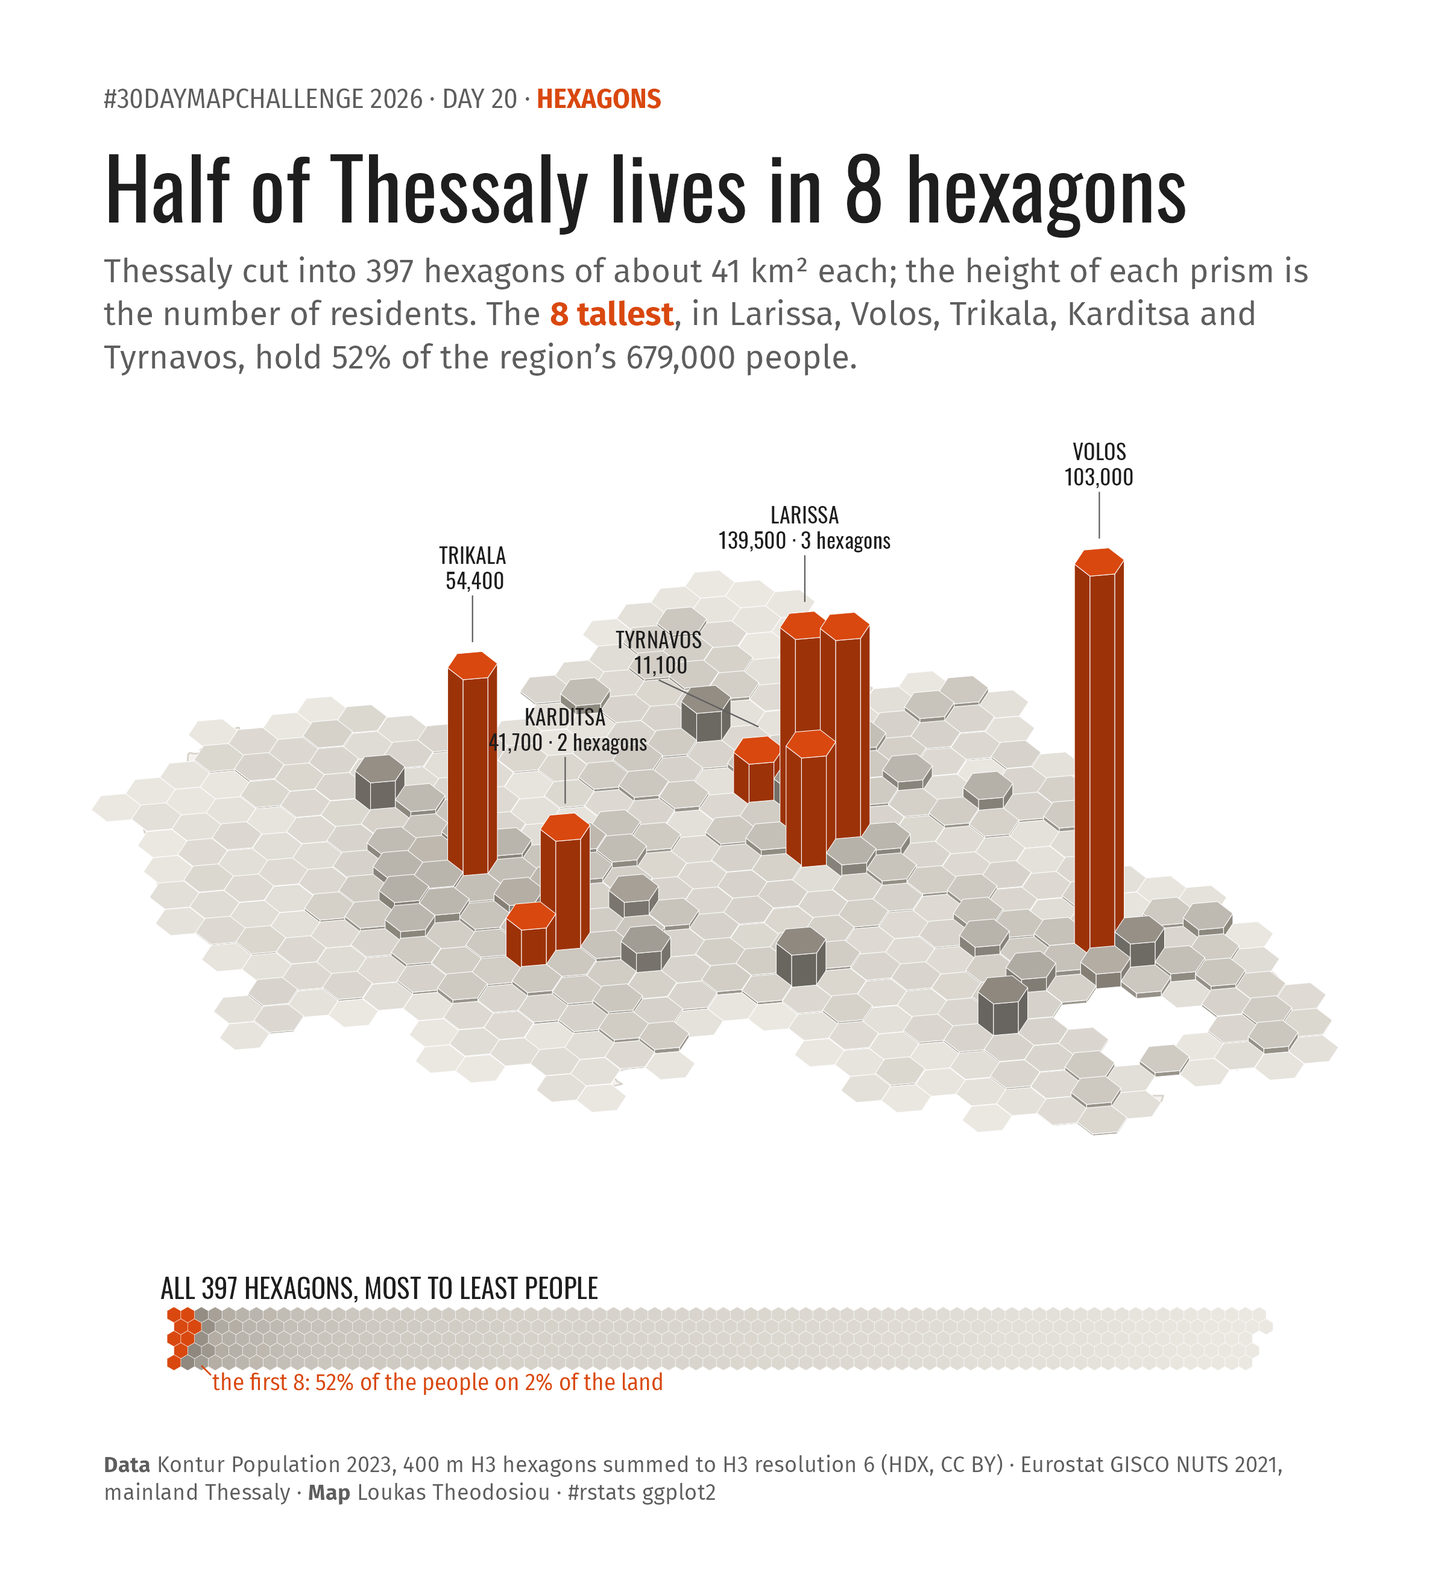
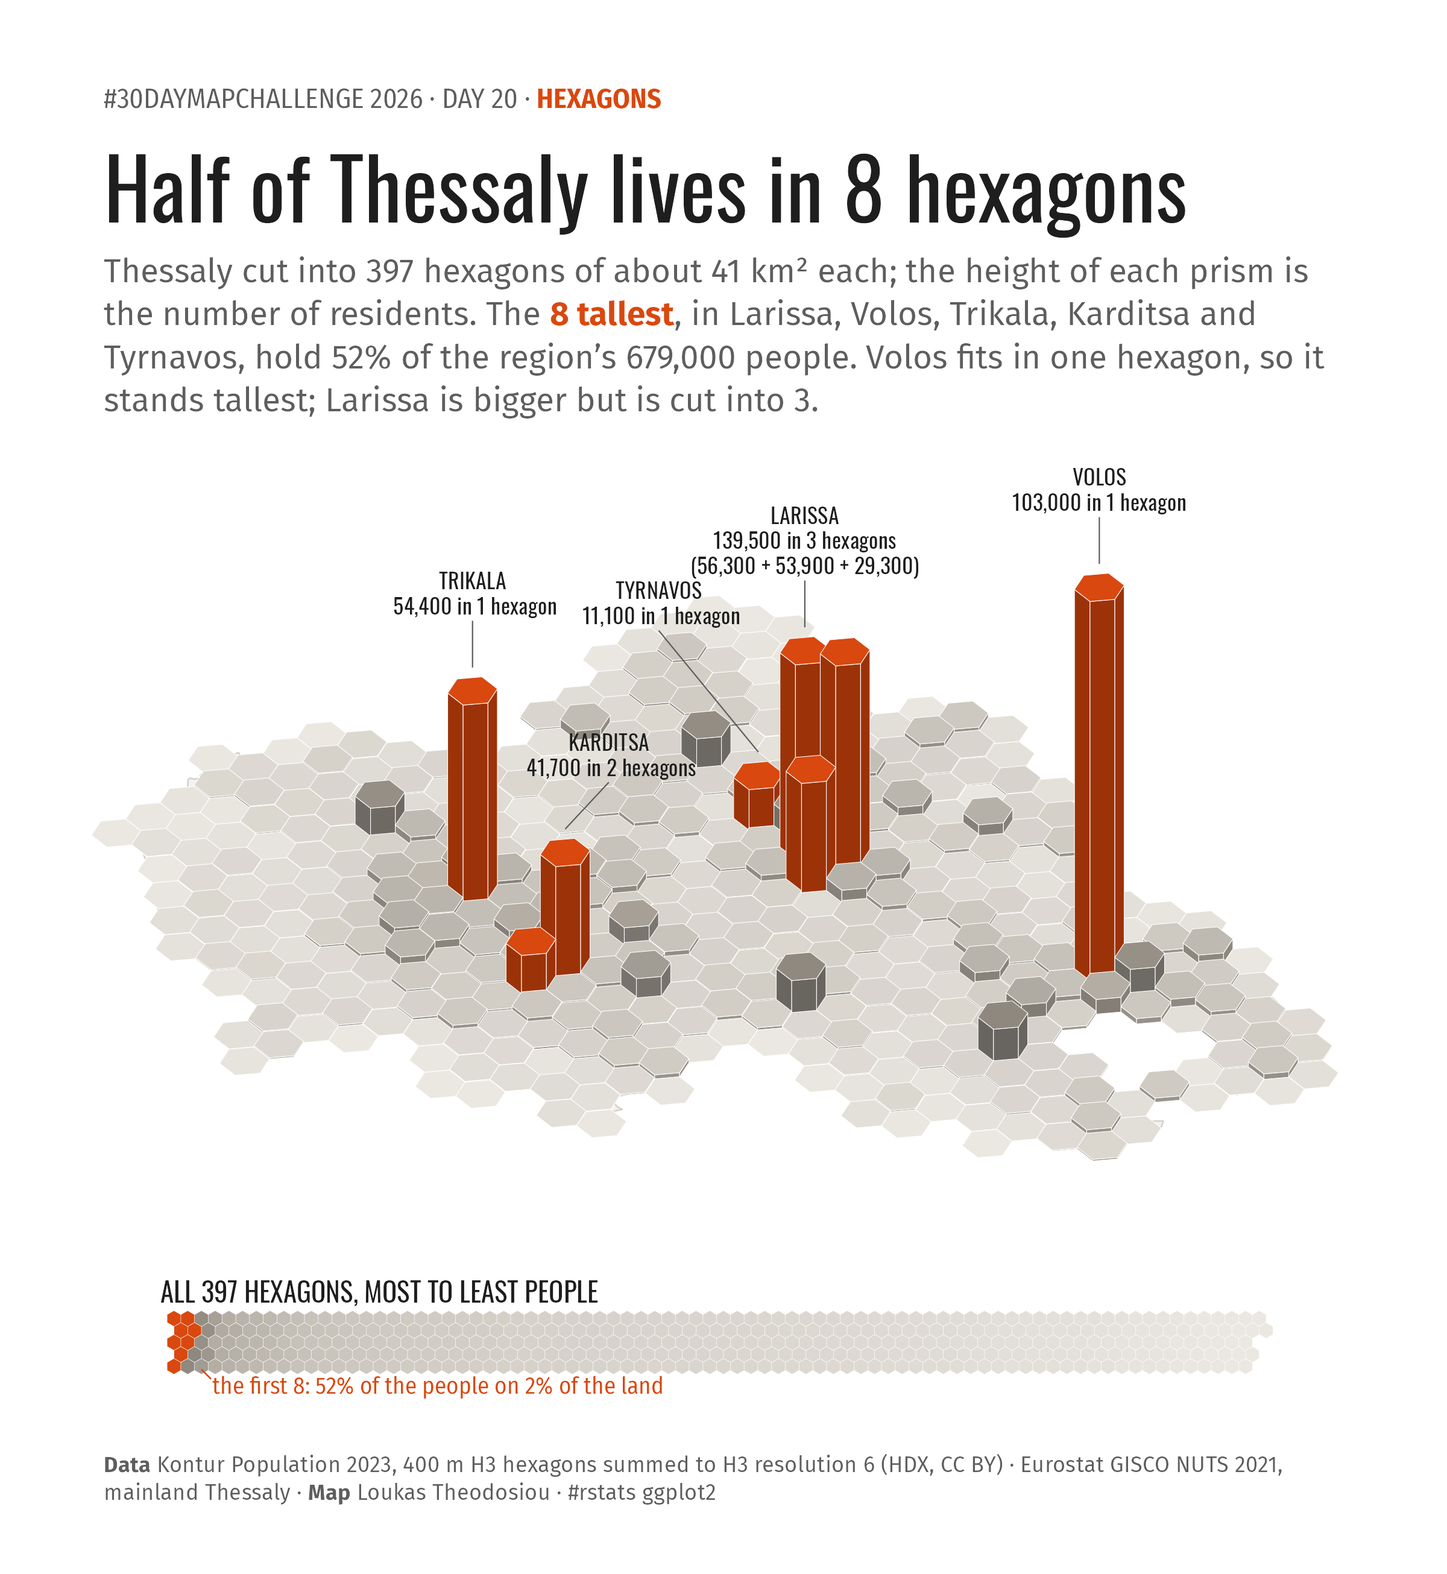
30DayMap Day 20: explain why Volos stands taller than Larissa; README maps link to their R file

diff --git a/thessaly-dataviz/30daymap/README.md b/thessaly-dataviz/30daymap/README.md
@@ -4,6 +4,8 @@ Thirty maps of Thessaly and Larissa for the [#30DayMapChallenge](https://30dayma
 made in R / ggplot2 by Loukas Theodosiou. Every map is built from open data named in its caption; each title is a
 number the script computes and prints. ✅ = done · ✋ = needs a check or input from Loukas (see *Status*).
 
+Each day is one R file in `scripts/`; click a map to open its code.
+
 **Run** from `thessaly-dataviz/`: `LANG=en_US.UTF-8 Rscript 30daymap/scripts/dayNN_<name>.R`. Scripts download and
 cache their data in `30daymap/cache/` (not in git). Shared look and data helpers: [`R/m30_base.R`](R/m30_base.R)
 (fonts Oswald + Fira Sans, Copernicus DEM, OSM extract, GADM municipalities). Design brief: [`BRIEF.md`](BRIEF.md).
@@ -46,9 +48,9 @@ cache their data in `30daymap/cache/` (not in git). Shared look and data helpers
 <a id="day-01"></a>
 ## Day 01 · Points — Nearly a third of Thessaly's settlements sit above 500 m
 
-[![](out/day01_settlements.png)](out/day01_settlements.png)
+**R file:** [`scripts/day01_settlements.R`](scripts/day01_settlements.R)
 
-Code: [`scripts/day01_settlements.R`](scripts/day01_settlements.R)
+[![](out/day01_settlements.png)](scripts/day01_settlements.R)
 
 **Idea**
 Every city, town, village and hamlet of Thessaly as one dot, coloured by the height it sits at. Pale dots fill the
@@ -82,9 +84,9 @@ done
 <a id="day-02"></a>
 ## Day 02 · Lines — Three fifths of Thessaly drains into one river
 
-[![](out/day02_pineios_rivers.png)](out/day02_pineios_rivers.png)
+**R file:** [`scripts/day02_pineios_rivers.R`](scripts/day02_pineios_rivers.R)
 
-Code: [`scripts/day02_pineios_rivers.R`](scripts/day02_pineios_rivers.R)
+[![](out/day02_pineios_rivers.png)](scripts/day02_pineios_rivers.R)
 
 **Idea**
 Every river reach of mainland Thessaly, line width by modelled mean discharge. The Pineios system is blue (main stem dark,
@@ -127,9 +129,9 @@ done
 <a id="day-03"></a>
 ## Day 03 · Polygons — Half of mapped Thessaly is fields
 
-[![](out/day03_thessaly_patchwork.png)](out/day03_thessaly_patchwork.png)
+**R file:** [`scripts/day03_thessaly_patchwork.R`](scripts/day03_thessaly_patchwork.R)
 
-Code: [`scripts/day03_thessaly_patchwork.R`](scripts/day03_thessaly_patchwork.R)
+[![](out/day03_thessaly_patchwork.png)](scripts/day03_thessaly_patchwork.R)
 
 **Idea**
 A mosaic of every land-use / land-cover polygon OpenStreetMap volunteers have drawn in mainland Thessaly, in six muted
@@ -164,9 +166,9 @@ done
 <a id="day-04"></a>
 ## Day 04 · Clusters — Three places hold 44% of Thessaly's threatened-species records
 
-[![](out/day04_species_clusters.png)](out/day04_species_clusters.png)
+**R file:** [`scripts/day04_species_clusters.R`](scripts/day04_species_clusters.R)
 
-Code: [`scripts/day04_species_clusters.R`](scripts/day04_species_clusters.R)
+[![](out/day04_species_clusters.png)](scripts/day04_species_clusters.R)
 
 **Idea**
 Instead of the hex grid of t13, let the records find their own hotspots: DBSCAN groups records of globally
@@ -205,9 +207,9 @@ done
 <a id="day-05"></a>
 ## Day 05 · Sight — Olympus sees 32% of Thessaly, Meteora only 6%
 
-[![](out/day05_sight.png)](out/day05_sight.png)
+**R file:** [`scripts/day05_sight.R`](scripts/day05_sight.R)
 
-Code: [`scripts/day05_sight.R`](scripts/day05_sight.R)
+[![](out/day05_sight.png)](scripts/day05_sight.R)
 
 **Idea**
 Two viewsheds over mainland Thessaly: what a person standing on Mytikas (Olympus' summit) and on the rock of Great Meteoron could see on a perfectly clear day. Blue = seen from Olympus, red = seen from Meteora, purple = both. A bar strip gives the share of the land and the farthest visible ground.
@@ -243,9 +245,9 @@ done
 <a id="day-06"></a>
 ## Day 06 · Vintage — 37% of Thessaly is plain, 16% is mountain
 
-[![](out/day06_vintage.png)](out/day06_vintage.png)
+**R file:** [`scripts/day06_vintage.R`](scripts/day06_vintage.R)
 
-Code: [`scripts/day06_vintage.R`](scripts/day06_vintage.R)
+[![](out/day06_vintage.png)](scripts/day06_vintage.R)
 
 **Idea**
 An old-atlas relief plate of Thessaly: faded hypsometric tints, 200 m contours, sepia relief shading, rivers in faded blue, engraved coast ripples and a serif cartouche with the "scale of heights" that doubles as the chart (share of the land in each height band).
@@ -277,9 +279,9 @@ done
 <a id="day-07"></a>
 ## Day 07 · A 10 minute map — Fewer than a third of Larissa's streets keep to the compass
 
-[![](out/day07_larissa_streets.png)](out/day07_larissa_streets.png)
+**R file:** [`scripts/day07_larissa_streets.R`](scripts/day07_larissa_streets.R)
 
-Code: [`scripts/day07_larissa_streets.R`](scripts/day07_larissa_streets.R)
+[![](out/day07_larissa_streets.png)](scripts/day07_larissa_streets.R)
 
 **Idea**
 Every street within 3 km of Larissa's centre, cut into straight pieces and coloured by how far it turns from the compass:
@@ -312,9 +314,9 @@ done
 <a id="day-08"></a>
 ## Day 08 · Utopia — Karla came back at a fifth of its size
 
-[![](out/day08_utopia_karla.png)](out/day08_utopia_karla.png)
+**R file:** [`scripts/day08_utopia_karla.R`](scripts/day08_utopia_karla.R)
 
-Code: [`scripts/day08_utopia_karla.R`](scripts/day08_utopia_karla.R)
+[![](out/day08_utopia_karla.png)](scripts/day08_utopia_karla.R)
 
 **Idea**
 Lake Karla (ancient Boibeis) was drained in 1962; a smaller lake was re-created in the lowest part of the old bed. The map puts the old lake at its record size next to today's lake — "the lake that was / the lake they want back" — and shows that Storm Daniel briefly refilled almost the whole old bed in September 2023.
@@ -347,9 +349,9 @@ done (needs Loukas: OK with a DEM-derived old shoreline? If he has a historic ma
 <a id="day-09"></a>
 ## Day 09 · Urban-rural — Half of Thessaly lives on 1% of its land
 
-[![](out/day09_urban_rural.png)](out/day09_urban_rural.png)
+**R file:** [`scripts/day09_urban_rural.R`](scripts/day09_urban_rural.R)
 
-Code: [`scripts/day09_urban_rural.R`](scripts/day09_urban_rural.R)
+[![](out/day09_urban_rural.png)](scripts/day09_urban_rural.R)
 
 **Idea**
 Every populated 400 m hexagon of mainland Thessaly, coloured by the EU Degree of Urbanisation of the 1 km cell under it
@@ -384,9 +386,9 @@ done
 <a id="day-10"></a>
 ## Day 10 · Prompting only — A sixth of Thessaly stands above 1,000 m, a ring of mountains around a flat plain
 
-[![](out/day10_prompting_only.png)](out/day10_prompting_only.png)
+**R file:** [`scripts/day10_prompting_only.R`](scripts/day10_prompting_only.R)
 
-Code: [`scripts/day10_prompting_only.R`](scripts/day10_prompting_only.R)
+[![](out/day10_prompting_only.png)](scripts/day10_prompting_only.R)
 
 **Idea**
 Thessaly is a lowland bowl walled in by mountains. The plain stays grey on a hillshade, land above 1,000 m is
@@ -435,9 +437,9 @@ done. Loukas could check whether he prefers "Kissavos" for Ossa (OSM tags only "
 <a id="day-11"></a>
 ## Day 11 · Sound — Thessaly on tape: 355 recordings, half of them grasshoppers
 
-[![](out/day11_sound.png)](out/day11_sound.png)
+**R file:** [`scripts/day11_sound.R`](scripts/day11_sound.R)
 
-Code: [`scripts/day11_sound.R`](scripts/day11_sound.R)
+[![](out/day11_sound.png)](scripts/day11_sound.R)
 
 **Idea**
 Map every animal sound recorded in Thessaly and shared on GBIF, each spot drawn as concentric "sound rings" (more
@@ -475,9 +477,9 @@ done
 <a id="day-12"></a>
 ## Day 12 · Power — 1,644 solar parks, 22 km² of panels
 
-[![](out/day12_power.png)](out/day12_power.png)
+**R file:** [`scripts/day12_power.R`](scripts/day12_power.R)
 
-Code: [`scripts/day12_power.R`](scripts/day12_power.R)
+[![](out/day12_power.png)](scripts/day12_power.R)
 
 **Idea**
 A night map of Thessaly's power: every solar site traced in OpenStreetMap as an amber dot (area to scale), the glowing
@@ -517,9 +519,9 @@ done
 <a id="day-13"></a>
 ## Day 13 · Interactions — Half of Thessaly's people live on 0.6 % of its land
 
-[![](out/day13_interactions.png)](out/day13_interactions.png)
+**R file:** [`scripts/day13_interactions.R`](scripts/day13_interactions.R) · [`out/day13_interactions.html`](out/day13_interactions.html)
 
-Code: [`scripts/day13_interactions.R`](scripts/day13_interactions.R) · [`out/day13_interactions.html`](out/day13_interactions.html)
+[![](out/day13_interactions.png)](scripts/day13_interactions.R)
 
 **Idea**
 An interactive Leaflet map of Thessaly with five layers you can switch on and off: people (Kontur hexagons),
@@ -563,9 +565,9 @@ done
 <a id="day-14"></a>
 ## Day 14 · A Borgesian map — The map of Larissa is still half in tatters
 
-[![](out/day14_larissa_buildings.png)](out/day14_larissa_buildings.png)
+**R file:** [`scripts/day14_larissa_buildings.R`](scripts/day14_larissa_buildings.R)
 
-Code: [`scripts/day14_larissa_buildings.R`](scripts/day14_larissa_buildings.R)
+[![](out/day14_larissa_buildings.png)](scripts/day14_larissa_buildings.R)
 
 **Idea**
 Borges' map that "coincided point for point" with the empire, applied to Larissa: every building footprint in OSM in an
@@ -598,9 +600,9 @@ needs Loukas: check the quote wording against Hurley's translation.
 <a id="day-15"></a>
 ## Day 15 · Inside out — Close the Vale of Tempe and Thessaly is a lake of 2,880 km² again
 
-[![](out/day15_inside_out.png)](out/day15_inside_out.png)
+**R file:** [`scripts/day15_inside_out.R`](scripts/day15_inside_out.R)
 
-Code: [`scripts/day15_inside_out.R`](scripts/day15_inside_out.R)
+[![](out/day15_inside_out.png)](scripts/day15_inside_out.R)
 
 **Idea**
 Herodotus (Histories 7.129) writes that Thessaly was once a lake ringed by mountains until the Pineios cut the Tempe gorge. Thought experiment on today's terrain: plug the gorge, let the water rise until it finds the next way out, and draw the basin as water and the mountains as the land. Towns get their depth "under the lake".
@@ -634,9 +636,9 @@ done
 <a id="day-16"></a>
 ## Day 16 · Collaborative map — 1,244 people built this map, 7 of them did half the work
 
-[![](out/day16_inaturalist.png)](out/day16_inaturalist.png)
+**R file:** [`scripts/day16_inaturalist.R`](scripts/day16_inaturalist.R)
 
-Code: [`scripts/day16_inaturalist.R`](scripts/day16_inaturalist.R)
+[![](out/day16_inaturalist.png)](scripts/day16_inaturalist.R)
 
 **Idea**
 Thessaly's nature map as citizen science: every research-grade iNaturalist observation, binned into 5 km hexagons
@@ -675,9 +677,9 @@ done
 <a id="day-17"></a>
 ## Day 17 · Light & dark — Shortest day, one hour before sunset: 32% of Thessaly already lies in shadow
 
-[![](out/day17_light_dark.png)](out/day17_light_dark.png)
+**R file:** [`scripts/day17_light_dark.R`](scripts/day17_light_dark.R)
 
-Code: [`scripts/day17_light_dark.R`](scripts/day17_light_dark.R)
+[![](out/day17_light_dark.png)](scripts/day17_light_dark.R)
 
 **Idea**
 Thessaly's relief lit by the real sun of the winter solstice, 21 December 2025 at 16:09 Greek time, one hour before sunset at Larissa. Warm light where slopes face the low south-west sun, ink where they face away or sit behind a ridge. A strip shows the sun's height through that day.
@@ -709,9 +711,9 @@ done
 <a id="day-18"></a>
 ## Day 18 · NULL — 36% of Thessaly has no resident at all
 
-[![](out/day18_null.png)](out/day18_null.png)
+**R file:** [`scripts/day18_null.R`](scripts/day18_null.R)
 
-Code: [`scripts/day18_null.R`](scripts/day18_null.R)
+[![](out/day18_null.png)](scripts/day18_null.R)
 
 **Idea**
 Kontur only lists 400 m hexagons with at least one person; the rest of the land is simply missing — NULL. The map
@@ -747,9 +749,9 @@ done
 <a id="day-19"></a>
 ## Day 19 · Smell — Sage rules the plain, mint and thyme the mountains
 
-[![](out/day19_herbs.png)](out/day19_herbs.png)
+**R file:** [`scripts/day19_herbs.R`](scripts/day19_herbs.R)
 
-Code: [`scripts/day19_herbs.R`](scripts/day19_herbs.R)
+[![](out/day19_herbs.png)](scripts/day19_herbs.R)
 
 **Idea**
 Thessaly's aromatic herbs — sage, thyme, mint, mountain tea, oregano, savory and lavender — as six small maps on a
@@ -787,9 +789,9 @@ done
 <a id="day-20"></a>
 ## Day 20 · Hexagons — Half of Thessaly lives in 8 hexagons
 
-[![](out/day20_hexagons.png)](out/day20_hexagons.png)
+**R file:** [`scripts/day20_hexagons.R`](scripts/day20_hexagons.R)
 
-Code: [`scripts/day20_hexagons.R`](scripts/day20_hexagons.R)
+[![](out/day20_hexagons.png)](scripts/day20_hexagons.R)
 
 **Idea**
 Kontur's 400 m hexagons summed into 397 H3 resolution-6 cells (~41 km² each) and drawn as hexagonal prisms in a
@@ -811,7 +813,7 @@ pure ggplot (no rayshader), one accent + greys.
 
 **Finding**
 **8 of 397 res-6 hexagons hold 51.5% of 678,559 people on 2.0% of the hexagon area (329 of 16,317 km²).**
-Volos 103,000 (one cell), Larissa 139,500 (3 cells), Trikala 54,400, Karditsa 41,700 (2 cells), Tyrnavos 11,100.
+Volos 103,000 (one cell), Larissa 139,500 (3 cells: 56,300 + 53,900 + 29,300), Trikala 54,400, Karditsa 41,700 (2 cells), Tyrnavos 11,100. Volos is the tallest prism because the fixed H3 grid keeps it in one cell while it cuts Larissa into three; labels and subtitle say so.
 
 **Caveats**
 Kontur is modelled population (2023). Res-6 cells on the border stick out of the region, so the area base (16,317 km²)
@@ -827,9 +829,9 @@ done
 <a id="day-21"></a>
 ## Day 21 · OpenStreetMap — Volos, in 1,370 km of mapped road
 
-[![](out/day21_volos_osm.png)](out/day21_volos_osm.png)
+**R file:** [`scripts/day21_volos_osm.R`](scripts/day21_volos_osm.R)
 
-Code: [`scripts/day21_volos_osm.R`](scripts/day21_volos_osm.R)
+[![](out/day21_volos_osm.png)](scripts/day21_volos_osm.R)
 
 **Idea**
 A poster of Volos between Mount Pelion and the Pagasetic Gulf from OpenStreetMap alone: sea, parks and woods, faint
@@ -863,9 +865,9 @@ done
 <a id="day-22"></a>
 ## Day 22 · Projections — Thessaly is 14,050 km². Web Mercator makes it 23,700, a far-side globe 3,310
 
-[![](out/day22_projections.png)](out/day22_projections.png)
+**R file:** [`scripts/day22_projections.R`](scripts/day22_projections.R)
 
-Code: [`scripts/day22_projections.R`](scripts/day22_projections.R)
+[![](out/day22_projections.png)](scripts/day22_projections.R)
 
 **Idea**
 The same outline of the Region of Thessaly (with the Sporades) drawn in nine projections at one common scale, each labelled with its EPSG/PROJ code and the area you would measure flat on that map. A dashed ghost shows the true shape; a dot strip puts all nine areas on one axis against the true area.
@@ -898,9 +900,9 @@ done
 <a id="day-23"></a>
 ## Day 23 · Taste — 27 protected foods and drinks carry a Thessaly address
 
-[![](out/day23_taste.png)](out/day23_taste.png)
+**R file:** [`scripts/day23_taste.R`](scripts/day23_taste.R)
 
-Code: [`scripts/day23_taste.R`](scripts/day23_taste.R)
+[![](out/day23_taste.png)](scripts/day23_taste.R)
 
 **Idea**
 Thessaly's larder as the EU sees it: every geographical indication (PDO / PGI) whose official area covers part of
@@ -954,9 +956,9 @@ done. Needs Loukas only to spot-check the 7 areas that come from excerpts (list 
 <a id="day-24"></a>
 ## Day 24 · Network — 42,400 km of road, 53% of it dirt track
 
-[![](out/day24_network.png)](out/day24_network.png)
+**R file:** [`scripts/day24_network.R`](scripts/day24_network.R)
 
-Code: [`scripts/day24_network.R`](scripts/day24_network.R)
+[![](out/day24_network.png)](scripts/day24_network.R)
 
 **Idea**
 Every OSM road of mainland Thessaly drawn as a hierarchy — motorway in red, then ever finer greys down to farm
@@ -996,9 +998,9 @@ done
 <a id="day-25"></a>
 ## Day 25 · Is this a map? — Half of Thessaly is trees, a quarter is fields
 
-[![](out/day25_is_this_a_map.png)](out/day25_is_this_a_map.png)
+**R file:** [`scripts/day25_is_this_a_map.R`](scripts/day25_is_this_a_map.R)
 
-Code: [`scripts/day25_is_this_a_map.R`](scripts/day25_is_this_a_map.R)
+[![](out/day25_is_this_a_map.png)](scripts/day25_is_this_a_map.R)
 
 **Idea**
 A chart that is also a map: the outline of Thessaly and its four regional units is real, but inside each unit the land is re-cut into a Voronoi treemap with one cell per land-cover class. Each cell's area is the real area of that class in that unit. Built with Loukas's own package ggvmap (`vmap_region()`), as the coordinator asked (replaces the waffle idea).
@@ -1028,9 +1030,9 @@ done
 <a id="day-26"></a>
 ## Day 26 · Water — Daniel flooded 926 km² of Thessaly
 
-[![](out/day26_water_daniel_flood.png)](out/day26_water_daniel_flood.png)
+**R file:** [`scripts/day26_water_daniel_flood.R`](scripts/day26_water_daniel_flood.R)
 
-Code: [`scripts/day26_water_daniel_flood.R`](scripts/day26_water_daniel_flood.R)
+[![](out/day26_water_daniel_flood.png)](scripts/day26_water_daniel_flood.R)
 
 **Idea**
 Every patch of land that the EU's Copernicus emergency service saw under water at least once after Storm Daniel, over the relief of the plain with the Pineios and Lake Karla. A strip shows how slowly the water went down in the four big mapped areas.
@@ -1059,9 +1061,9 @@ done
 <a id="day-27"></a>
 ## Day 27 · New tool — From the river to the gods: 2,815 m in 29 km
 
-[![](out/day27_new_tool.png)](out/day27_new_tool.png)
+**R file:** [`scripts/day27_new_tool.R`](scripts/day27_new_tool.R) · [`out/day27_new_tool.html`](out/day27_new_tool.html)
 
-Code: [`scripts/day27_new_tool.R`](scripts/day27_new_tool.R) · [`out/day27_new_tool.html`](out/day27_new_tool.html)
+[![](out/day27_new_tool.png)](scripts/day27_new_tool.R)
 
 **Idea**
 A 3D oblique view of Olympus, the Vale of Tempe and Ossa, made with a tool new to this project: **mapgl**
@@ -1103,9 +1105,9 @@ done
 <a id="day-28"></a>
 ## Day 28 · Feeling — 2 August 2021: the plain felt like 46 °C
 
-[![](out/day28_feeling_heat.png)](out/day28_feeling_heat.png)
+**R file:** [`scripts/day28_feeling_heat.R`](scripts/day28_feeling_heat.R)
 
-Code: [`scripts/day28_feeling_heat.R`](scripts/day28_feeling_heat.R)
+[![](out/day28_feeling_heat.png)](scripts/day28_feeling_heat.R)
 
 **Idea**
 How hot it felt, not how hot it was: ERA5 daily maximum apparent (feels-like) temperature on the worst day of the summer 2021 heatwave, over Thessaly. A strip below shows how often Larissa now passes 40 °C.
@@ -1135,9 +1137,9 @@ done
 <a id="day-29"></a>
 ## Day 29 · Raster — 58% of Thessaly's plain is fields
 
-[![](out/day29_raster_landcover.png)](out/day29_raster_landcover.png)
+**R file:** [`scripts/day29_raster_landcover.R`](scripts/day29_raster_landcover.R)
 
-Code: [`scripts/day29_raster_landcover.R`](scripts/day29_raster_landcover.R)
+[![](out/day29_raster_landcover.png)](scripts/day29_raster_landcover.R)
 
 **Idea**
 The ESA WorldCover 10 m land-cover raster of mainland Thessaly as a print poster: the yellow patchwork of the plain, ringed by the forests of Pindus, Olympus, Ossa, Pelion and Othrys, with towns in built-up red. A strip compares the plain with the hills and mountains.
@@ -1165,9 +1167,9 @@ done
 <a id="day-30"></a>
 ## Day 30 · Pen & paper — (title to be written by hand)
 
-[![](out/day30_pen_paper_template.png)](out/day30_pen_paper_template.png)
+**R file:** [`scripts/day30_pen_paper.R`](scripts/day30_pen_paper.R) · [`out/day30_pen_paper_template.pdf`](out/day30_pen_paper_template.pdf)
 
-Code: [`scripts/day30_pen_paper.R`](scripts/day30_pen_paper.R) · [`out/day30_pen_paper_template.pdf`](out/day30_pen_paper_template.pdf)
+[![](out/day30_pen_paper_template.png)](scripts/day30_pen_paper.R)
 
 **Idea**
 Loukas draws this map himself. The script only makes the paper: an A4 portrait drawing sheet with a faint

diff --git a/thessaly-dataviz/30daymap/notes/day20.md b/thessaly-dataviz/30daymap/notes/day20.md
@@ -20,7 +20,7 @@ pure ggplot (no rayshader), one accent + greys.
 
 **Finding**
 **8 of 397 res-6 hexagons hold 51.5% of 678,559 people on 2.0% of the hexagon area (329 of 16,317 km²).**
-Volos 103,000 (one cell), Larissa 139,500 (3 cells), Trikala 54,400, Karditsa 41,700 (2 cells), Tyrnavos 11,100.
+Volos 103,000 (one cell), Larissa 139,500 (3 cells: 56,300 + 53,900 + 29,300), Trikala 54,400, Karditsa 41,700 (2 cells), Tyrnavos 11,100. Volos is the tallest prism because the fixed H3 grid keeps it in one cell while it cuts Larissa into three; labels and subtitle say so.
 
 **Caveats**
 Kontur is modelled population (2023). Res-6 cells on the border stick out of the region, so the area base (16,317 km²)
